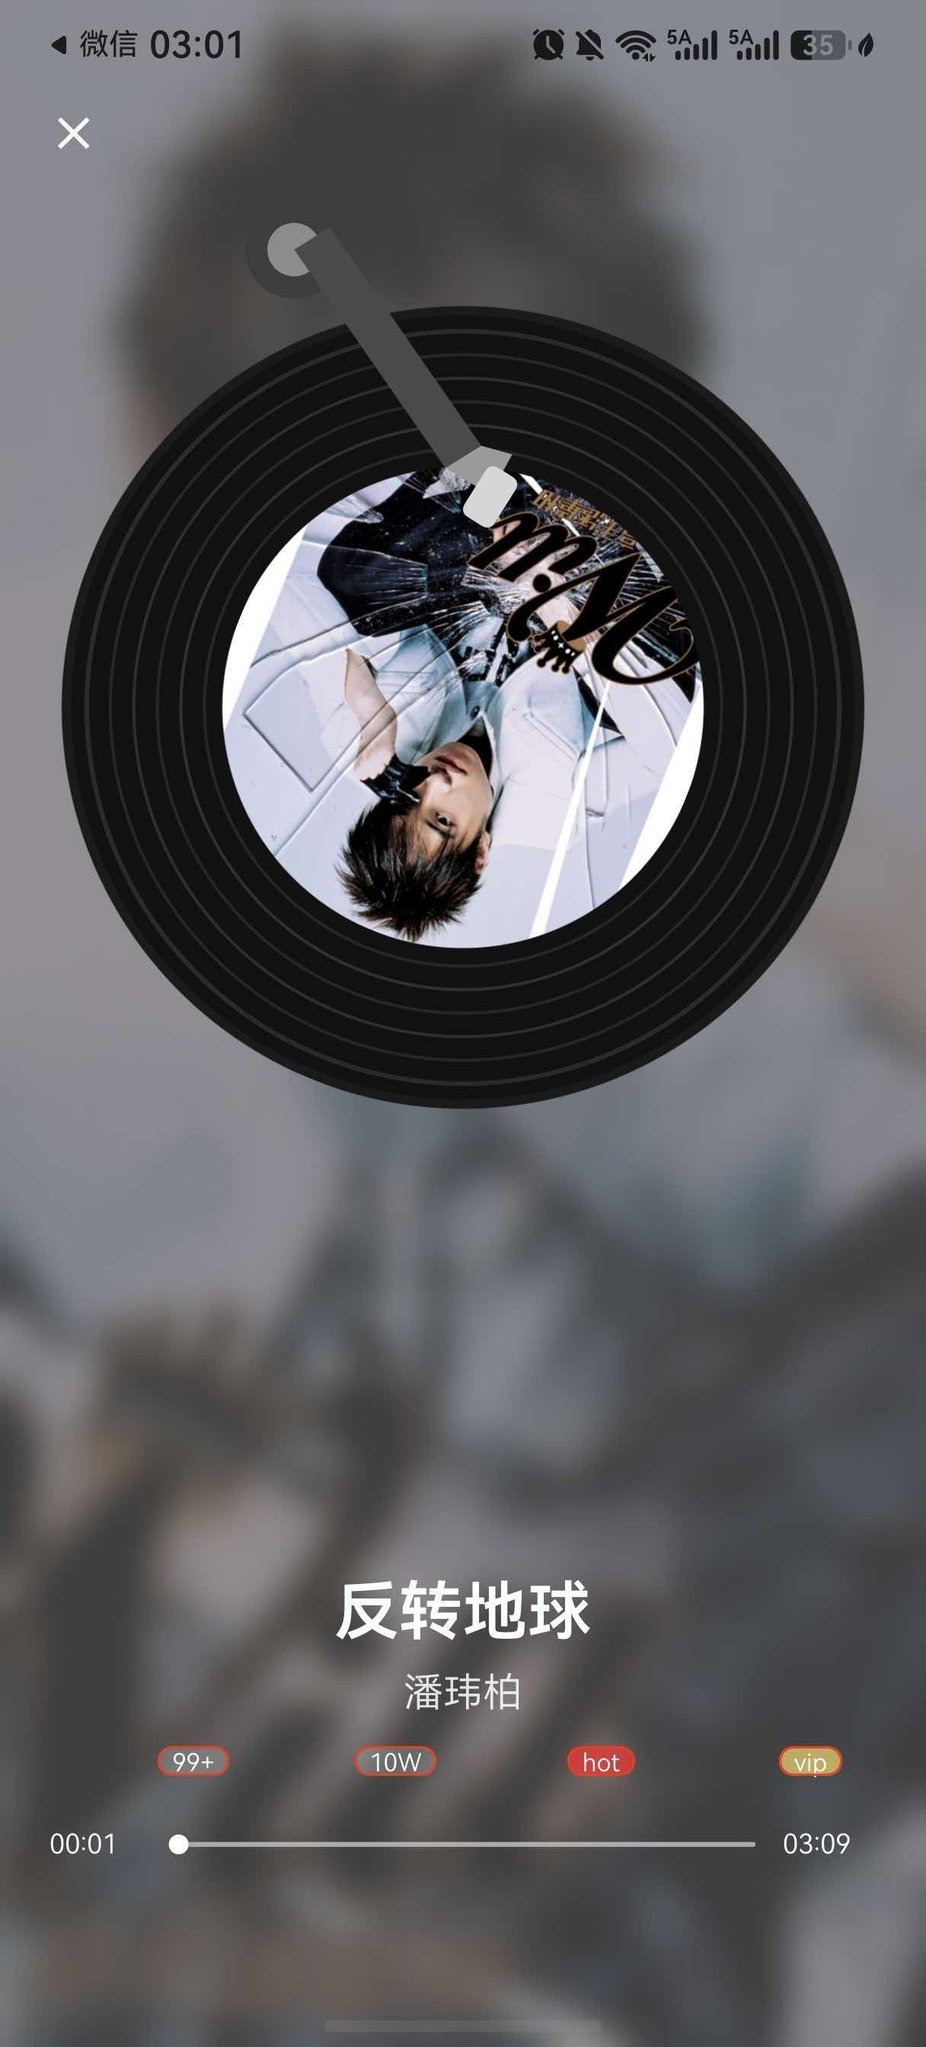
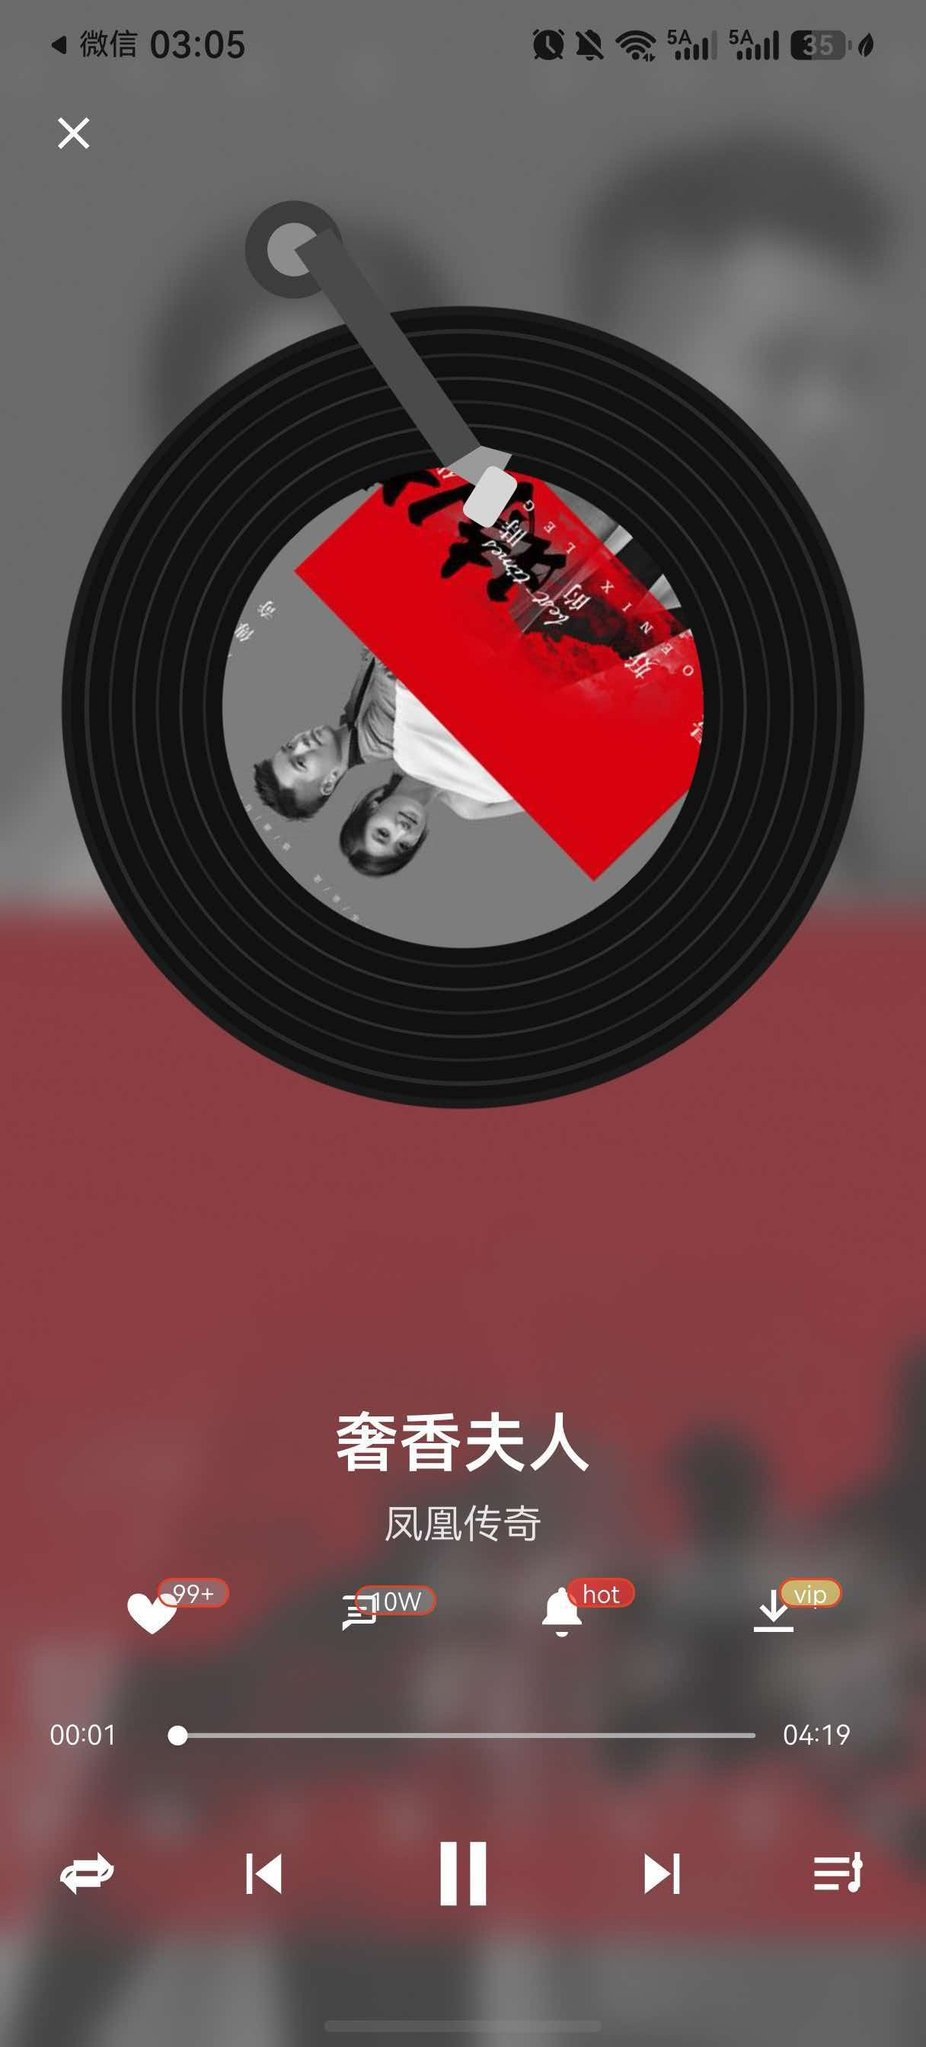
docs: 更新播放页截图并新增播放列表面板截图

diff --git a/README.md b/README.md
@@ -12,12 +12,12 @@
 | 推荐 | 发现 | 播放 |
 |:---:|:---:|:---:|
 | <img src="screenshots/01-recommend.jpg" width="240" /> | <img src="screenshots/02-find.jpg" width="240" /> | <img src="screenshots/03-play.jpg" width="240" /> |
-| 轮播 / 每日推荐 / 推荐歌单 | 歌曲列表 + 逐行播放按钮 | 唱片 + 唱针 + 进度同步 |
+| 轮播 / 每日推荐 / 推荐歌单 | 歌曲列表 + 逐行播放按钮 | 唱片 + 唱针 + 播放控制 |
 
-| 动态 | 我的 |
-|:---:|:---:|
-| <img src="screenshots/04-moment.png" width="240" /> | <img src="screenshots/05-mine.jpg" width="240" /> |
-| 互动广场 | 封面墙 + 用户信息 |
+| 播放列表 | 动态 | 我的 |
+|:---:|:---:|:---:|
+| <img src="screenshots/06-playlist.png" width="240" /> | <img src="screenshots/04-moment.png" width="240" /> | <img src="screenshots/05-mine.jpg" width="240" /> |
+| 当前曲目高亮 / 逐行播放 / 滑动删除 | 互动广场 | 封面墙 + 用户信息 |
 
 ---
 
